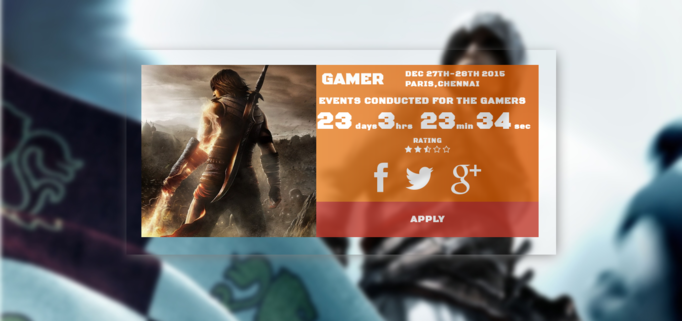
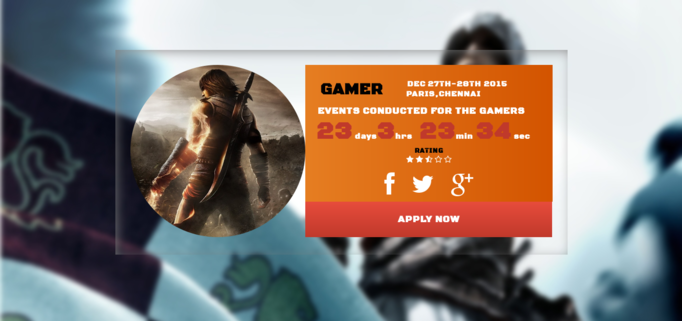
changes to page 2

Changed region(s): [[0.154, 0.1558, 0.8314, 0.81], [0.4927, 0.7788, 0.585, 0.81], [0.3387, 0.7788, 0.4311, 0.81]]

diff --git a/webpage/page2/gamer/style.css b/webpage/page2/gamer/style.css
@@ -24,7 +24,7 @@ body {
 }
 
 .wrap {
-	width: 800px;
+	width: 845px;
 	margin: auto;
 	margin-top: 100px;
 	padding: 30px;
@@ -58,17 +58,18 @@ body {
 }
 
 .right-div {
-	width: 445px;
+	width: 455px;
 	background-color: #A7CEDD;
 	float: left;
-
 	background: -webkit-linear-gradient(to right, #E67E22, #D35400);
 	background: -moz-linear-gradient(to right,#E67E22,#D35400);
 	background: -o-linear-gradient(to right,#E67E22,#D35400);
 	background: linear-gradient(to right,#E67E22,#D35400);
-	opacity: 0.8;
+	opacity: 1;
 	color: white;
 	overflow: hidden;
+        padding: 20px;
+        height: 234px;
 }
 
 .right-div h1 {
@@ -84,6 +85,13 @@ body {
 	float: left;
 	padding: 0px;
 	padding-top: 8px;
+        border-left: 0px;
+        transition: border-left 0.6s ease-out,opacity 0.9s;
+        
+}
+#timing:hover {
+        border-left: 5px solid #C0293B;
+        opacity: 2;       
 }
 
 #time {
@@ -114,14 +122,34 @@ body {
 
 #apply {
 	background-color: #C0392B;
+        width: 53%;
+        float:  left ;
 	padding: 23.5px;
 	color: white;
 	text-align: center;
+        background: -moz-linear-gradient(180deg, #E74C3C, #C0392B);
+        background: -webkit-linear-gradient(180deg, #E74C3C, #C0392B);
+        background: -o-linear-gradient(180deg, #E74C3C, #C0392B);
+        background: linear-gradient(180deg, #E74C3C, #C0392B);
+}
+
+#apply:hover {
+        background: -moz-linear-gradient(0deg, #E74C3C, #C0392B);
+        background: -webkit-linear-gradient(0deg, #E74C3C, #C0392B);
+        background: -o-linear-gradient(0deg, #E74C3C, #C0392B);
+        background: linear-gradient(0deg, #E74C3C, #C0392B);
+        -moz-box-shadow: 1px 1px 2px -1px #E74C3C;
+        -webkit-box-shadow: 1px 1px 2px -1px #E74C3C;
+        -o-box-shadow: 1px 1px 2px -1px #E74C3C;
+         box-shadow: 1px 1px 2px -1px #E74C3C;
+        
+}
+ 
+span {
+    color:#C0392B ;
 }
 
 input[type="button"] {
-	background-color: #C0392B;
-	color: white;
 	
 }
 
@@ -134,3 +162,9 @@ a{	text-decoration: none;
 	padding-left: 2px;
 }
 
+
+.left-div img:hover {
+    border-radius: 50%;
+    transition: border-radius 500ms ease-in;
+}
+    

diff --git a/webpage/page2/gamer/gamer.html b/webpage/page2/gamer/gamer.html
@@ -7,12 +7,13 @@
 	</head>
 	<body>
 		<div class="wrap">
+                        <div id="inner-wrap">
 			<div class="left-div">
 				<img src="soldier.jpg"></img>
 			</div>
 			<div class="right-div">
 				<div id="heading">
-				<h1>GAMER</h1>
+				<h1 style="color: black;">GAMER</h1>
 				</div>
 				<div id="timing">
 					<div id="time">
@@ -29,7 +30,7 @@
 					<h4><span style="font-size: 48px;">23</span> days<span style="font-size: 48px;">3</span>hrs<span style="font-size: 48px;"> 23</span>min <span style="font-size: 48px;">34</span> sec </h4>
 				</div>
 				<div id="rating">
-					<h5>RATING</h5>
+					<h5 style="color: black;">RATING</h5>
 					<div class="icon">
 						<i class="fa fa-star fa-1x"></i>
 						<i class="fa fa-star fa-1x"></i>
@@ -41,14 +42,17 @@
 
 				<div id="social-links">
 					<div class="icon">
-						<i class="fa fa-facebook fa-4x"></i>
-						<i class="fa fa-twitter fa-4x"></i>
-						<i class="fa fa-google-plus fa-4x"></i>
+						<i class="fa fa-facebook fa-3x"></i>
+						<i class="fa fa-twitter fa-3x"></i>
+						<i class="fa fa-google-plus fa-3x"></i>
 					</div>
 				</div>
-			
+                        
+			</div>
 			<a  href="#">	<div id="apply">
-				<h3><input  type="button" value="APPLY NOW " style="border:none;"></input></h3>
+				<h3>
+                                    APPLY NOW
+                                </h3>
 				</div></a>
 
 			<!--	<h1>gamer</h1>
@@ -58,7 +62,7 @@
 				<h1>gamer</h1>
 				<h1>gamer</h1>
 				<h1>gamer</h1> -->
-			</div>
+                        </div>
 		</div>
 	</body>
 </html>

diff --git a/webpage/page3/strawberries/style.css b/webpage/page3/strawberries/style.css
@@ -29,7 +29,9 @@
 
 }
 p {
-    word-spacing: 2mm;
+    word-spacing: 1mm;
+   margin-top: 5px;
+    margin-bottom: 5px;
 }
 
 .first p:before {
@@ -62,13 +64,13 @@ ul li{
 ul li {
     font-weight: 200px;
     font-size: 20px;
-    padding: 10px;
+    padding: 8px;
 }
 
 ul li:hover {
     background-color: #E74C3C;
     color: #fff;
-    transform: scale(1.3);
+    transform: scale(1.1);
     transition: transform 0.6s, opacity 0.9s;
 }
 

diff --git a/webpage/page3/rockstar/style.css b/webpage/page3/rockstar/style.css
@@ -30,6 +30,7 @@
     -o-box-shadow: 0px 1px 30px -5px black;
     box-shadow: 0px 1px 30px -5px black;
     opacity: 1;
+    transition: ease 0.6s, opacity 0.9s;
    
 }
 
@@ -37,7 +38,6 @@
     transform: scale(1.1);
     z-index: 1;
     opacity: 2;
-    transition: transform 0.6s, opacity 0.9s;
 }
 
 #pro-pic {
